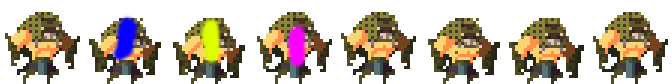
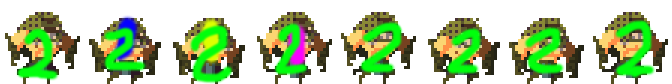
Add way to prevent chosing duplicate skins
Also, enable start when all players select a character

diff --git a/src/CharacterSelectState.cpp b/src/CharacterSelectState.cpp
@@ -9,6 +9,8 @@ CharacterSelectState::CharacterSelectState(){
 
 	// FIXME 2 enabled characters
 	for(int i=0;i<2;i++){
+		available_skin[get_char_name(i)].assign(4, true);
+
 		char_name[get_char_name(i)] = Sprite("character_select/chars/" + get_char_name(i) + "/name.png");
 
 		// loop to get skins
@@ -29,6 +31,7 @@ CharacterSelectState::CharacterSelectState(){
 	memset(cur_selection_col, 0, sizeof cur_selection_col);
 	memset(cur_selection_row, 0, sizeof cur_selection_row);
 	memset(cur_skin, 0, sizeof cur_skin);
+	memset(selected, false, sizeof selected);
 
 	name_tag_positions = { ii(91, 234), ii(92, 583), ii(956, 234), ii(955, 583) };
 	number_delta = { ii(12, 9), ii(93, 9), ii(12, 101), ii(93, 101) };
@@ -49,38 +52,57 @@ void CharacterSelectState::update(float delta){
 		return;
 	}
 
-	if(input_manager->key_press(SDLK_RETURN) || input_manager->joystick_button_press(InputManager::START, 0)){
-		m_quit_requested = true;
-		Game::get_instance().push(new BattleState("1", "swamp_song.ogg"));
-		return;
+	// only enable start when all players have selected a character
+	if(all_players_selected()){
+		if(input_manager->key_press(SDLK_RETURN) || input_manager->joystick_button_press(InputManager::START, 0)){
+			m_quit_requested = true;
+			Game::get_instance().push(new BattleState("1", "swamp_song.ogg"));
+			return;
+		}
 	}
 
 	for(int i=0;i<4;i++){
-		if((input_manager->key_press(SDLK_LEFT) || input_manager->joystick_button_press(InputManager::LEFT, i)) && cur_selection_col[i] != 0){
+		if(input_manager->key_press(SDLK_LEFT) && cur_selection_col[i] != 0 && not selected[i]){
 			if(character_enabled(cur_selection_row[i], cur_selection_col[i] - 1))
 			cur_selection_col[i]--;
 		}
 
-		if((input_manager->key_press(SDLK_RIGHT) || input_manager->joystick_button_press(InputManager::RIGHT, i)) && cur_selection_col[i] != 1){
+		if(input_manager->key_press(SDLK_RIGHT) && cur_selection_col[i] != 1 && not selected[i]){
 			if(character_enabled(cur_selection_row[i], cur_selection_col[i] + 1))
 			cur_selection_col[i]++;
 		}
 
-		if(input_manager->key_press(SDLK_UP) && cur_selection_row[i] != 0){
+		if(input_manager->key_press(SDLK_UP) && cur_selection_row[i] != 0 && not selected[i]){
 			if(character_enabled(cur_selection_row[i] - 1, cur_selection_col[i]))
 			cur_selection_row[i]--;
 		}
 
-		if(input_manager->key_press(SDLK_DOWN) && cur_selection_row[i] != 3){
+		if(input_manager->key_press(SDLK_DOWN) && cur_selection_row[i] != 3 && not selected[i]){
 			if(character_enabled(cur_selection_row[i] + 1, cur_selection_col[i]))
 			cur_selection_row[i]++;
 		}
 
 		// skins
-		if(input_manager->key_press(SDLK_1)) cur_skin[i] = 0;
-		if(input_manager->key_press(SDLK_2)) cur_skin[i] = 1;
-		if(input_manager->key_press(SDLK_3)) cur_skin[i] = 2;
-		if(input_manager->key_press(SDLK_4)) cur_skin[i] = 3;
+		// press triangle goes over all skins
+		if(input_manager->key_press(SDLK_y) && not selected[i]){
+			cur_skin[i] = (cur_skin[i] + 1) % 4;
+		}
+
+		// select character && lock skin
+		if(input_manager->key_press(SDLK_x) && not selected[i]){
+			int col_sel = cur_selection_col[i];
+			int row_sel = cur_selection_row[i];
+			string char_selected = names[col_sel][row_sel];
+
+			if(not available_skin[char_selected][cur_skin[i]]){
+				printf("SKIN [%d] of [%s] ALREADY CHOSEN\n", cur_skin[i], char_selected.c_str());
+			}
+			else{
+				printf("PLAYER %d CHOSE SKIN [%d] of [%s]\n", i + 1, cur_skin[i], char_selected.c_str());
+				available_skin[char_selected][cur_skin[i]] = false;
+				selected[i] = true;
+			}
+		}
 	}
 
 	for(auto it = char_sprite.begin(); it != char_sprite.end(); it++){
@@ -129,4 +151,10 @@ string CharacterSelectState::get_char_name(int idx){
 		case 0: return "flesh";
 		case 1: return "blood";
 	}
+}
+
+bool CharacterSelectState::all_players_selected(){
+	for(auto cur : selected)
+		if(not cur) return false;
+	return true;
 }

diff --git a/include/CharacterSelectState.h b/include/CharacterSelectState.h
@@ -13,13 +13,17 @@ class CharacterSelectState : public State {
 private:
 	Sprite background, character_slots;
 	Sprite name_tag[4], number[4];
-	int cur_selection_row[4], cur_selection_col[4], cur_skin[4];
+	int cur_selection_row[4], cur_selection_col[4];
 	vector<ii> name_tag_positions, number_delta, name_delta, sprite_pos;
 	vector<int> col_slots, row_slots;
 	vector< vector<string> > names;
 
 	map<string, Sprite> char_name;
 	unordered_map<string, vector<Sprite> > char_sprite;
+
+	int cur_skin[4];
+	map<string, vector<bool> > available_skin;
+	bool selected[4];
 
 public:
 	CharacterSelectState();
@@ -32,6 +36,7 @@ public:
 
 	bool character_enabled(int row, int col);
 	string get_char_name(int idx);
+	bool all_players_selected();
 };
 
 #endif
